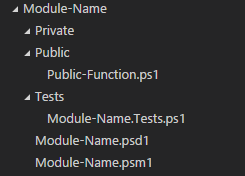
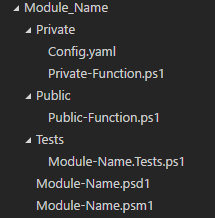
Updating article

Changed region(s): [[0.0837, 0.5114, 0.8651, 0.9943], [0.0837, 0.1136, 0.7814, 0.483], [0.0558, 0.0, 0.5023, 0.0852]]

diff --git a/content/post/creating-powershell-modules.md b/content/post/creating-powershell-modules.md
@@ -16,7 +16,7 @@ Let's look at that structure a bit more.
 The name of the root folder is the name of the module.  Module naming?  Whatever you like really as there aren't any standards.  Generally it's helpful to name it something sensible and reflective of its purpose.
 
 ### Private folder
-Any supporting functions or files that do not form part of your public API go in here.  Things like configuration files or functions which are used internally but never externally.
+Any supporting functions or files that do not form part of your public API go in here.  Things like configuration files (I like to use YAML but how you do that is up to you) or functions which are used internally but never externally.
 
 ### Public folder
 This is where all of the public functions go.  The naming of these functions should follow PowerShell naming standards and use one of the [approved verbs](https://msdn.microsoft.com/en-us/library/ms714428(v=vs.85).aspx).
@@ -26,7 +26,9 @@ Module tests are here.  By default I always have a test file named after the mod
 
 Tests are run by running [Pester](https://github.com/pester/Pester) whilst in the module root folder.
 
-`Invoke-Pester`
+```powershell
+Invoke-Pester
+```
 
 ### Module-Name.psd1
 This is the manifest file.  It's created automatically when I run a script to create a new module. You will need to edit this file though in order to expose your public functions (there are also many other reasons you may want to edit it, but they are outside the scope of this article).
@@ -45,6 +47,6 @@ This will expose `Public-Function1` and `Public-Function2` once the module has b
 This is the module loader file.  When the module is imported, it will ensure that all of the scripts in the Public folder are available to the user.
 
 ## Scripting the creation of a new module
-My [New-PSModule.ps1](https://github.com/rokett/PowerShell-Scripts) script is used to create a new module; it creates the folder structure described above.
+My [New-PSModule.ps1](https://github.com/rokett/Powershell-Module-Template) script is used to create a new module; it creates the folder structure described above.
 
-There is an expectation that the manifest and loader files are in a folder called `_Templates` in whatever path you intend to use to create the new module in.  For example if you are creating a new module in `C:\Program Files\WindowsPowerShell\Modules` there should be a folder in there called `_Templates` which contains the two files.  Grab these from my [Github repo](https://github.com/rokett/PowerShell-Scripts).
+There is an expectation that the manifest and loader files are in a folder called `_Templates` in whatever path you intend to use to create the new module in.  For example if you are creating a new module in `C:\Program Files\WindowsPowerShell\Modules` there should be a folder in there called `_Templates` which contains the two files.  Grab these from my [Github repo](https://github.com/rokett/Powershell-Module-Template).
